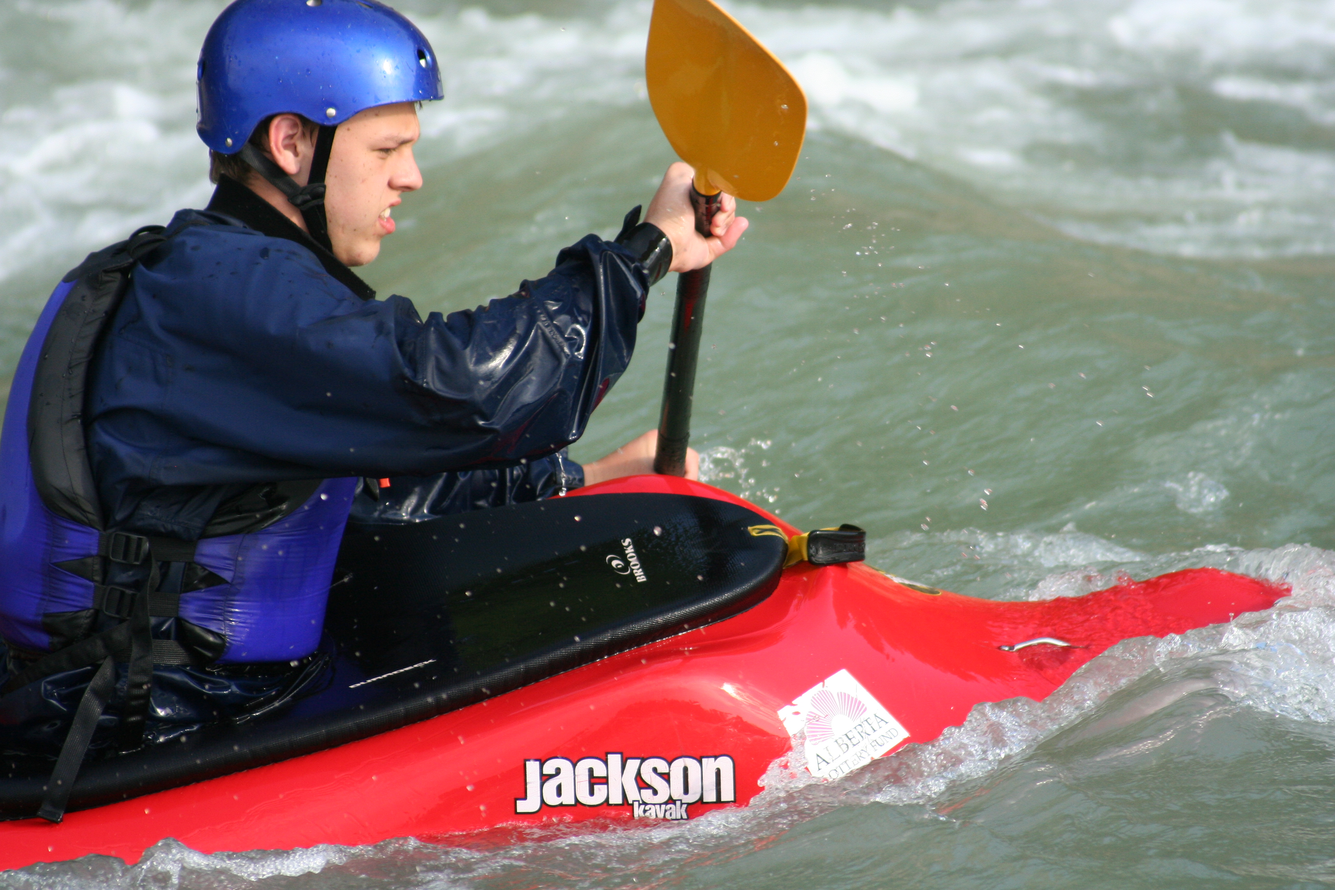
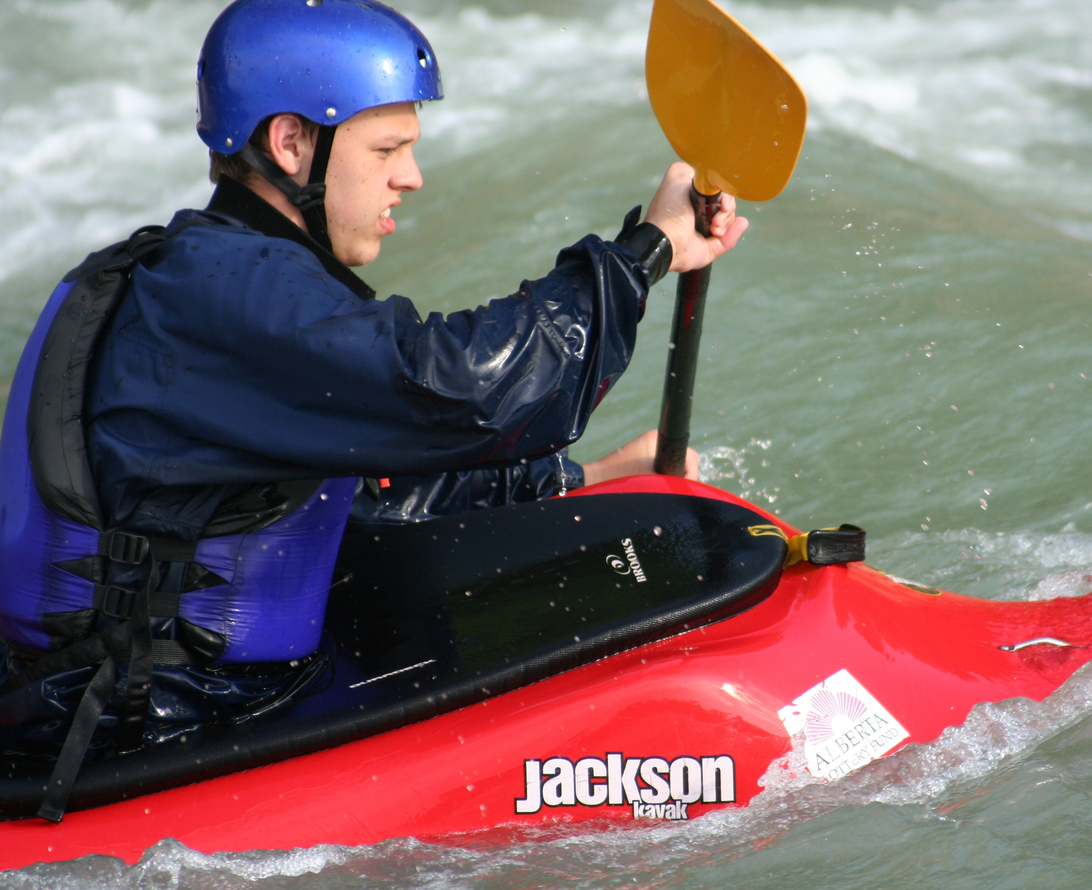
improved photo gallery setup

diff --git a/src/components/uiElements/GalleryPhotos.jsx b/src/components/uiElements/GalleryPhotos.jsx
@@ -1,5 +1,7 @@
-import React, { useState } from 'react';
+import React, { useState, useEffect } from 'react';
 import Modal from 'react-modal';
+import { FaArrowLeft, FaArrowRight, FaTimes } from 'react-icons/fa';
+import { motion, AnimatePresence } from 'framer-motion';
 import ImageComponent from '../../wrappers/ImageComponent';
 import { galleryPhotos } from '../../data/pageData/galleryData';
 import LazyLoad from 'react-lazy-load';
@@ -9,6 +11,27 @@ Modal.setAppElement('#root'); // This is to avoid screen reader issues
 export default function GalleryPhotos() {
   const [activePhotoIndex, setActivePhotoIndex] = useState(0);
   const [isModalOpen, setIsModalOpen] = useState(false);
+  const [direction, setDirection] = useState(0);
+
+  useEffect(() => {
+    const handleKeyDown = (event) => {
+      if (event.key === 'Escape') {
+        closeModal();
+      } else if (event.key === 'ArrowRight') {
+        nextPhoto();
+      } else if (event.key === 'ArrowLeft') {
+        prevPhoto();
+      }
+    };
+
+    if (isModalOpen) {
+      window.addEventListener('keydown', handleKeyDown);
+    } else {
+      window.removeEventListener('keydown', handleKeyDown);
+    }
+
+    return () => window.removeEventListener('keydown', handleKeyDown);
+  }, [isModalOpen]);
 
   const openModal = (index) => {
     setActivePhotoIndex(index);
@@ -21,11 +44,32 @@ export default function GalleryPhotos() {
   };
 
   const nextPhoto = () => {
+    setDirection(1);
     setActivePhotoIndex((prevIndex) => (prevIndex + 1) % galleryPhotos.length);
   };
 
   const prevPhoto = () => {
+    setDirection(-1);
     setActivePhotoIndex((prevIndex) => (prevIndex - 1 + galleryPhotos.length) % galleryPhotos.length);
+  };
+
+  const variants = {
+    enter: (direction) => {
+      return {
+        x: direction > 0 ? 1000 : -1000,
+        opacity: 0
+      };
+    },
+    center: {
+      x: 0,
+      opacity: 1
+    },
+    exit: (direction) => {
+      return {
+        x: direction > 0 ? -1000 : 1000,
+        opacity: 0
+      };
+    }
   };
 
   return (
@@ -35,7 +79,7 @@ export default function GalleryPhotos() {
           <div className='flex flex-col max-w-full'>
             <LazyLoad height={300} offsetVertical={300}>
               <div 
-                className='relative' 
+                className='relative hover:opacity-70' 
                 style={{ height: '300px', width: '100%' }}
                 onClick={() => openModal(index)}
               >
@@ -55,35 +99,48 @@ export default function GalleryPhotos() {
         isOpen={isModalOpen}
         onRequestClose={closeModal}
         contentLabel="Photo Modal"
-        className="flex items-center justify-center outline-none "
+        className="flex items-center justify-center outline-none"
         overlayClassName="fixed inset-0 bg-black bg-opacity-50 z-30 flex items-center justify-center"
       >
-        <div className='relative z-35 max-w-screen-lg w-full  h-114 min-w-96 bg-secondary p-10 rounded'>
+        <div className='relative z-35 h-120 min-w-[34rem] w-full bg-secondary p-10 rounded'>
           <button
             onClick={closeModal}
-            className='absolute top-0 right-0 p-2 text-primary'
+            className='absolute top-0 right-0 p-2 text-primary hover:text-accent transition-transform transform hover:scale-110'
           >
-            Close
+            <FaTimes size={24} />
           </button>
           <button
             onClick={prevPhoto}
-            className='absolute left-0 top-1/2 transform -translate-y-1/2 p-2 text-primary'
+            className='absolute left-0 top-1/2 transform -translate-y-1/2 p-2 text-primary hover:text-accent transition-transform hover:scale-110'
           >
-            &lt;
+            <FaArrowLeft size={24} />
           </button>
-          <div className='relative w-full h-full'>
-            <ImageComponent
-              src={`${process.env.PUBLIC_URL}/gallery-photos/${galleryPhotos[activePhotoIndex].photo}`}
-              alt={`Photo ${activePhotoIndex + 1}`}
-              className='object-cover w-full h-full rounded-sm'
-              blurHash={galleryPhotos[activePhotoIndex].blurhash}
-            />
+          <div className='relative w-full h-full overflow-hidden'>
+            <AnimatePresence initial={false} custom={direction}>
+              <motion.div
+                key={activePhotoIndex}
+                custom={direction}
+                variants={variants}
+                initial="enter"
+                animate="center"
+                exit="exit"
+                transition={{ type: 'spring', stiffness: 300, damping: 30 }}
+                className='absolute top-0 left-0 w-full h-full'
+              >
+                <ImageComponent
+                  src={`${process.env.PUBLIC_URL}/gallery-photos/${galleryPhotos[activePhotoIndex].photo}`}
+                  alt={`Photo ${activePhotoIndex + 1}`}
+                  className='object-cover w-full  rounded-sm'
+                  blurHash={galleryPhotos[activePhotoIndex].blurhash}
+                />
+              </motion.div>
+            </AnimatePresence>
           </div>
           <button
             onClick={nextPhoto}
-            className='absolute right-0 top-1/2 transform -translate-y-1/2 p-2 text-primary'
+            className='absolute right-0 top-1/2 transform -translate-y-1/2 p-2 text-primary hover:text-accent transition-transform hover:scale-110'
           >
-            &gt;
+            <FaArrowRight size={24} />
           </button>
         </div>
       </Modal>
